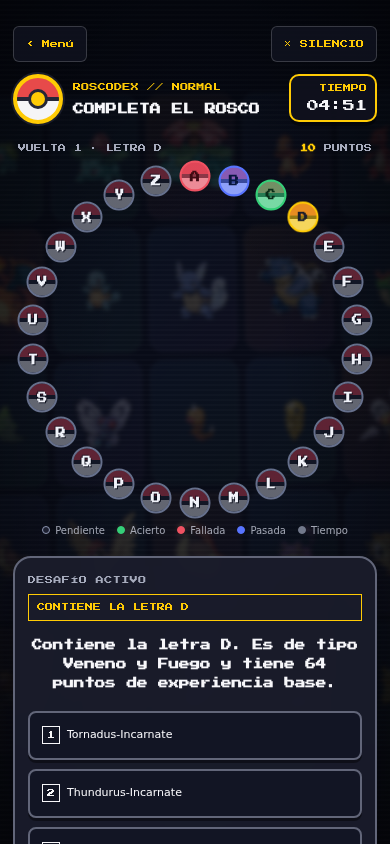
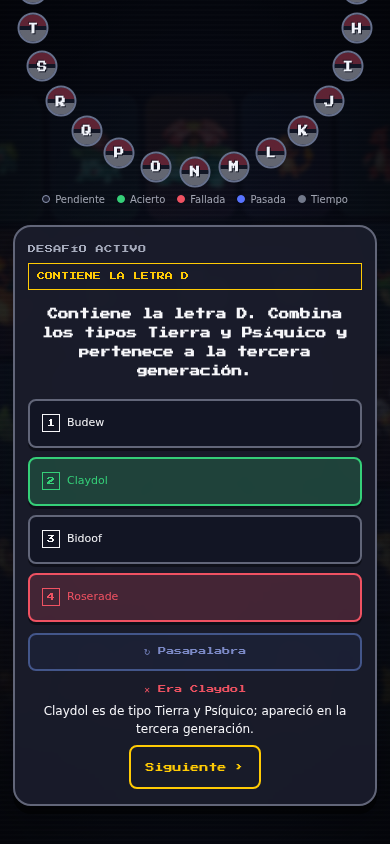
docs: capturas de la v0.6.0, guía de usuario al día y pendientes de Alberto
- README: capturas de la portada con modos, Alto contraste y Estadísticas,
  de la pantalla de estadísticas y, en el móvil, de la explicación tras un
  fallo (la antigua mostraba «Tornadus-Incarnate» y «1.8 m»); quitada la
  de la partida antigua.
- README, «Lo que tienes que hacer tú»: la PR de la fase 3 ya está
  fusionada y publicada; queda probarla en el móvil y lo demás.
- doc/10-guia-de-usuario.md seguía en la v0.4: modos y contrarreloj,
  partida guiada, explicación al fallar, récords, compartir,
  estadísticas, accesibilidad, instalar y aviso de versión nueva. Ya no
  aconseja «borrar los datos del sitio» (borraría las demás webs de
  bertmarti.github.io).

Guía redactada por GPT-5.6 Luna (delegado; Gemini sin cuota) y revisada
por Claude (etiquetas de los botones comprobadas en el código); README y
capturas, Claude.

diff --git a/doc/10-guia-de-usuario.md b/doc/10-guia-de-usuario.md
@@ -4,18 +4,21 @@
 
 Roscodex es un juego de preguntas tipo rosco inspirado en el formato de televisión de “Pasapalabra”, con estética pixel-art y temática Pokémon.
 
-El objetivo es completar el rosco de la A a la Z respondiendo preguntas antes de que termine el tiempo.
+El objetivo es completar el rosco de la A a la Z respondiendo preguntas antes de que termine el tiempo, o jugar sin reloj a tu ritmo.
 
 Es un proyecto fan, gratuito y no oficial. No está afiliado, patrocinado ni aprobado por Nintendo, GAME FREAK, Creatures Inc. ni The Pokémon Company.
 
 ## Cómo empezar
 
-Abre la aplicación desde una de estas direcciones:
+Abre la aplicación desde la [versión publicada](https://bertmarti.github.io/Roscodex/).
 
-- Demo publicada: [bertmarti.github.io/Roscodex](https://bertmarti.github.io/Roscodex/)
-- Demo local: `http://localhost:4173/Roscodex/` tras `npm run build && npm run preview` (ver [DESARROLLO.md](DESARROLLO.md))
+En la pantalla inicial elige primero el modo:
 
-En la pantalla inicial selecciona uno de los cuatro niveles de dificultad:
+- **Con reloj**: una partida con el tiempo de la dificultad elegida.
+- **Contrarreloj 2:00**: completa todo el rosco en dos minutos, en cualquier dificultad, con récords propios.
+- **Práctica (sin reloj)**: juega con calma y sin temporizador.
+
+El juego recuerda el modo que hayas elegido. Después selecciona uno de los cuatro niveles de dificultad:
 
 | Nivel | Tiempo | Tipo de preguntas |
 |---|---:|---|
@@ -24,11 +27,13 @@ En la pantalla inicial selecciona uno de los cuatro niveles de dificultad:
 | Difícil | 4 minutos | Varias condiciones, estadísticas, habilidades o movimientos |
 | Extremo | 3 minutos | Combinaciones avanzadas de datos de combate |
 
+Si es tu primera vez, la portada muestra **¿Primera vez?**: pulsa **Jugar partida guiada** para que el juego te explique cómo jugar mientras avanzas, sin reloj. También puedes consultar en cualquier momento el botón **Cómo se juega** de la portada.
+
 ## Cómo se juega
 
 Al comenzar una partida aparecen:
 
-1. El temporizador.
+1. El temporizador, salvo en Práctica.
 2. El rosco circular con las letras de la A a la Z.
 3. La puntuación actual.
 4. La pregunta correspondiente a la letra activa.
@@ -44,22 +49,19 @@ Cada pregunta indica siempre una de estas dos reglas:
 - **Empieza por la letra X.** La respuesta debe comenzar por esa letra.
 - **Contiene la letra X.** La respuesta debe contener esa letra en cualquier posición.
 
-La regla aparece tanto en el encabezado de la pregunta como dentro del enunciado. No se utilizan etiquetas como “Pista directa” o “Pista experta”.
+La regla aparece tanto en el encabezado de la pregunta como dentro del enunciado. El rosco tiene 18 preguntas de tipo **Empieza por** y 8 de tipo **Contiene**.
 
-El reparto aproximado del rosco es:
-
-- 18 preguntas de tipo **Empieza por**.
-- 8 preguntas de tipo **Contiene**.
-
-En un rosco de 26 letras no es posible representar un 70/30 exacto con números enteros; 18/8 equivale aproximadamente a 69,2 % y 30,8 %.
+Las respuestas usan los nombres oficiales en español de Pokémon, movimientos y habilidades. Las alturas y los pesos llevan coma decimal, por ejemplo, **0,7 m**.
 
 ## Responder una pregunta
 
-Pulsa una de las cuatro respuestas:
+Pulsa una de las cuatro respuestas, o usa las teclas `1`, `2`, `3` y `4`:
 
-- Si es correcta, se marca en verde y recibes puntos.
-- Si es incorrecta, se marca en rojo y se muestra la respuesta correcta.
-- Después de responder, el juego avanza automáticamente a la siguiente letra.
+- Si es correcta, se marca en verde y recibes **+10 puntos**.
+- Si es incorrecta, se marca en rojo y se muestra la respuesta correcta con una línea que la explica, indicando su tipo y generación.
+- Después de un fallo, pulsa **Siguiente ›** o `Intro` para continuar. Con reloj, el juego continúa solo a los pocos segundos (2,6 s); sin reloj espera hasta que pulses el botón.
+
+La tecla `P` activa **Pasapalabra**.
 
 Las letras del rosco cambian de estado para mostrar el progreso:
 
@@ -71,7 +73,7 @@ Las letras del rosco cambian de estado para mostrar el progreso:
 
 ## Usar Pasapalabra
 
-Pulsa **Pasapalabra** cuando no quieras responder en ese momento.
+Pulsa **Pasapalabra** cuando no quieras responder en ese momento, o usa la tecla `P`.
 
 La pregunta queda marcada como pasada y se coloca para una segunda vuelta. Cuando termina la primera vuelta, el juego vuelve a las letras que se hayan pasado, siempre que todavía quede tiempo.
 
@@ -89,62 +91,66 @@ La pantalla de resultados muestra:
 - Respuestas incorrectas.
 - Preguntas pasadas.
 
-Desde ahí puedes:
+En las partidas con reloj y en las contrarrelojes también muestra el récord de la dificultad. Si superas el anterior, aparece **¡Nuevo récord!** Las partidas de práctica no cuentan para los récords, pero sí para las estadísticas.
 
-- Pulsar **Jugar de nuevo** para iniciar otra partida con la misma dificultad.
-- Pulsar **Cambiar dificultad** para volver a la pantalla inicial.
+Desde ahí puedes pulsar **Compartir resultado**. Se abre el menú de compartir del sistema; si no está disponible, el resultado se copia al portapapeles o se muestra un texto para copiarlo a mano. Solo incluye los puntos, los contadores y una fila de cuadritos **🟩🟥⬜**: no incluye ningún dato personal.
+
+También puedes pulsar **Jugar de nuevo** para iniciar otra partida con el mismo modo y dificultad, o **Cambiar dificultad** para volver a la pantalla inicial.
+
+## Estadísticas
+
+El botón **▤ Estadísticas** de la portada muestra, entre otros datos:
+
+- Partidas jugadas.
+- Aciertos totales y porcentaje de acierto.
+- Mejor racha de aciertos seguidos.
+- Preguntas falladas y pasadas.
+- Aciertos por letra y la letra que más cuesta.
+- Récords de las partidas con reloj y de las contrarrelojes, por dificultad.
+
+Puedes borrarlas con **Borrar estadísticas** y confirmando con **Borrar** (se borran también los récords; no se puede deshacer). Todo se queda en tu dispositivo.
+
+## Accesibilidad y ajustes
+
+- El botón de sonido activa o desactiva los efectos de sonido 8-bit y recuerda tu preferencia.
+- **Alto contraste** se activa automáticamente si el sistema pide más contraste. También puedes forzarlo o quitarlo desde el interruptor de la portada.
+- **‹ Menú** permite abandonar la partida tras una confirmación. El reloj se pausa mientras decides.
+- Los lectores de pantalla reciben avisos cuando aparece una pregunta nueva y cuando quedan 60, 30 o 10 segundos.
 
 ## Preguntas sin repetición
 
-La aplicación dispone de un banco local de 2.080 preguntas:
+La aplicación dispone de un banco local de 2.080 preguntas, 520 para cada nivel de dificultad. Al empezar cada partida se seleccionan preguntas nuevas para gestionar la rotación.
 
-- 520 para Principiante.
-- 520 para Normal.
-- 520 para Difícil.
-- 520 para Extremo.
-- 20 candidatas para cada letra dentro de cada dificultad.
-
-Al empezar cada partida se selecciona una pregunta nueva por letra. El historial se guarda en el almacenamiento local del navegador, por lo que cerrar y volver a abrir la página no borra automáticamente las preguntas utilizadas.
-
-Cuando se han consumido todas las preguntas de una dificultad, la aplicación muestra un aviso y no reinicia la rotación por su cuenta. El reinicio del banco requiere pulsar la acción explícita **Reiniciar rotación**.
-
-Si se borran los datos del navegador o se utiliza otro dispositivo, el historial local no estará disponible.
+Cuando se agotan las preguntas de una dificultad, la aplicación muestra un aviso y ofrece **Reiniciar rotación**. La rotación no se reinicia por su cuenta.
 
 ## Funcionamiento sin conexión
 
-La partida no consulta una API en tiempo real. Las preguntas, los sprites y la tipografía se sirven desde archivos locales incluidos en la aplicación.
+La PWA permite jugar sin conexión después de abrir la web por primera vez. Si el navegador lo permite, en la portada aparece el botón **⇩ Instalar app**. En iPhone y iPad aparece **Instalar en iPhone**, con los pasos para usar Compartir y **Añadir a la pantalla de inicio**.
 
-La conexión a Internet solo es necesaria para abrir la versión publicada por primera vez o para consultar los enlaces de fuentes y créditos.
+Cuando haya una versión nueva verás el aviso **Hay una versión nueva de Roscodex**. Puedes pulsar **Recargar** o **Luego**; el aviso nunca interrumpe una partida.
 
 ## Proyecto fan y fuentes
 
-Roscodex utiliza datos estructurados de [PokéAPI](https://pokeapi.co/), sprites de [PokéAPI Sprites](https://github.com/PokeAPI/sprites) y la tipografía [Press Start 2P](https://fonts.google.com/specimen/Press+Start+2P).
-
-Los datos se importan y validan antes de guardarse en el banco local. Las fuentes y la información legal están disponibles en el botón **Fuentes y créditos** de la pantalla inicial.
+Roscodex utiliza datos de [PokéAPI](https://pokeapi.co/), sprites de [PokéAPI Sprites](https://github.com/PokeAPI/sprites) y la tipografía [Press Start 2P](https://fonts.google.com/specimen/Press+Start+2P). Las fuentes y la información legal están disponibles en **Fuentes y créditos**, en la pantalla inicial.
 
 ## Problemas habituales
 
 ### La página aparece vacía o no carga las preguntas
 
-La aplicación usa Vite; no abras un HTML generado con `file://`. Desde la raíz del proyecto puedes arrancar el servidor de desarrollo con:
-
-```bash
-npm install
-npm run dev
-```
-
-Después visita la URL que muestre Vite, normalmente `http://localhost:5173/Roscodex/`.
+La puesta en marcha local y los problemas técnicos relacionados con la aplicación se explican en la [guía de desarrollo](DESARROLLO.md).
 
 ### Quiero empezar de cero
 
-Borra los datos del sitio en el navegador. Esto eliminará el historial local de preguntas y la aplicación volverá a utilizar la rotación desde el principio.
+Si se han agotado las preguntas de una dificultad, pulsa **Reiniciar rotación**. Para borrar las estadísticas y los récords, entra en **▤ Estadísticas** y pulsa **Borrar estadísticas**.
+
+Si quieres borrar todos los datos de Roscodex, elimina solo las claves que empiezan por **roscodex-**. Si instalaste la app, también puedes desinstalarla. No borres todos los datos del sitio, porque la web comparte origen con otras webs de `bertmarti.github.io`.
 
 ### La aplicación funciona, pero no veo sprites
 
-Comprueba que el build se ha generado con `npm run build` y que los recursos siguen dentro de `public/assets/`.
+Los problemas técnicos de recursos y de desarrollo se explican en la [guía de desarrollo](DESARROLLO.md).
 
 ## Estado actual del proyecto
 
-Esta versión es una PWA web publicada. Incluye el flujo principal del juego, el rosco completo, temporizador, respuestas, segunda vuelta, resultados, créditos, banco de preguntas local y efectos 8-bit generados con Web Audio.
+La versión actual es la **0.6.0**. Incluye los modos con reloj, contrarreloj y práctica, partida guiada, estadísticas, récords, compartir resultado, alto contraste y una PWA instalable que funciona sin conexión.
 
-Todavía no incluye cuentas, ranking online, multijugador ni sincronización entre dispositivos. La configuración de Capacitor está preparada para crear proyectos Android/iOS cuando se instalen sus SDK nativos.
+Sigue sin incluir cuentas, ranking online, multijugador ni sincronización entre dispositivos.

diff --git a/README.md b/README.md
@@ -40,13 +40,13 @@
 
 ## 📸 Capturas de pantalla
 
-| Portada: elige dificultad | Partida en marcha |
+| Portada: elige modo y dificultad | Tus estadísticas |
 | :---: | :---: |
-| <img src="doc/img/captura-portada.png" alt="Portada: elige dificultad" width="440"> | <img src="doc/img/captura-partida.png" alt="Partida en marcha" width="440"> |
+| <img src="doc/img/captura-portada.png" alt="Portada con los modos Con reloj, Contrarreloj 2:00 y Práctica, las cuatro dificultades y los botones Alto contraste y Estadísticas" width="440"> | <img src="doc/img/captura-estadisticas.png" alt="Pantalla de estadísticas con partidas, porcentaje de acierto, mejor racha y aciertos por letra" width="440"> |
 
 <p align="center">
-  <em>En el móvil</em><br>
-  <img src="doc/img/captura-movil.png" alt="En el móvil" width="300">
+  <em>En el móvil: al fallar, la respuesta correcta explicada</em><br>
+  <img src="doc/img/captura-movil.png" alt="Partida en el móvil tras un fallo: la respuesta correcta, una línea con su tipo y generación y el botón Siguiente" width="300">
 </p>
 
 ---
@@ -179,12 +179,11 @@ Elige **«Contrarreloj 2:00»**: el rosco entero en dos minutos, en cualquier di
 
 ## 🧑💻 Lo que tienes que hacer tú (Alberto)
 
-1. **Fusionar la PR de la fase 3** cuando la revisión dé el visto bueno: Pages se publica sola al llegar a `main` (no hay que activar nada más).
-2. **Comprobarlo en el móvil** una vez publicada: abre <https://bertmarti.github.io/Roscodex/>, juega una contrarreloj, falla a propósito para ver la explicación, pulsa «Compartir resultado» (en el móvil sale el menú de compartir del sistema), abre «Estadísticas» y prueba «Alto contraste». Ponla en modo avión para ver que sigue funcionando.
-3. **Revisión editorial del banco** de preguntas (muestreo por dificultad; ver `doc/agents/content-quality.md`). Los nombres ya salen en español oficial (Pokémon, movimientos y habilidades); lo que queda es leer preguntas y decidir si alguna es confusa.
-4. **Decidir la puntuación** pendiente en `doc/08-decisiones-abiertas.md` (penalización por fallo, bonus por completar, puntos por velocidad, si Pasapalabra resta). Ahora mismo: +10 por acierto y nada más. Cuando lo decidas, se cambia solo `answerCurrent` en `src/gameState.ts` y su test.
-5. **Derechos del contenido Pokémon y del retrato CC BY-NC** antes de pensar en tiendas de apps.
-6. Cuando la Raspberry Pi pase a **Node 22.12 o superior**, quitar la regla de Vitest en `.github/dependabot.yml` para recibir Vitest 5.
+1. **Comprobarlo en el móvil** (la versión 0.6.0 ya está publicada): abre <https://bertmarti.github.io/Roscodex/>, juega una contrarreloj, falla a propósito para ver la explicación, pulsa «Compartir resultado» (en el móvil sale el menú de compartir del sistema), abre «Estadísticas» y prueba «Alto contraste». Ponla en modo avión para ver que sigue funcionando.
+2. **Revisión editorial del banco** de preguntas (muestreo por dificultad; ver `doc/agents/content-quality.md`). Los nombres ya salen en español oficial (Pokémon, movimientos y habilidades); lo que queda es leer preguntas y decidir si alguna es confusa.
+3. **Decidir la puntuación** pendiente en `doc/08-decisiones-abiertas.md` (penalización por fallo, bonus por completar, puntos por velocidad, si Pasapalabra resta). Ahora mismo: +10 por acierto y nada más. Cuando lo decidas, se cambia solo `answerCurrent` en `src/gameState.ts` y su test.
+4. **Derechos del contenido Pokémon y del retrato CC BY-NC** antes de pensar en tiendas de apps.
+5. Cuando la Raspberry Pi pase a **Node 22.12 o superior**, quitar la regla de Vitest en `.github/dependabot.yml` para recibir Vitest 5.
 
 ---
 
@@ -200,4 +199,4 @@ Elige **«Contrarreloj 2:00»**: el rosco entero en dos minutos, en cualquier di
 
 ---
 
-¿Quieres colaborar o ver cómo está hecho? Lee la [guía de desarrollo](doc/DESARROLLO.md). Licencia [MIT](LICENSE).
+Todos los detalles para jugar están en la [guía de usuario](doc/10-guia-de-usuario.md). ¿Quieres colaborar o ver cómo está hecho? Lee la [guía de desarrollo](doc/DESARROLLO.md). Licencia [MIT](LICENSE).
